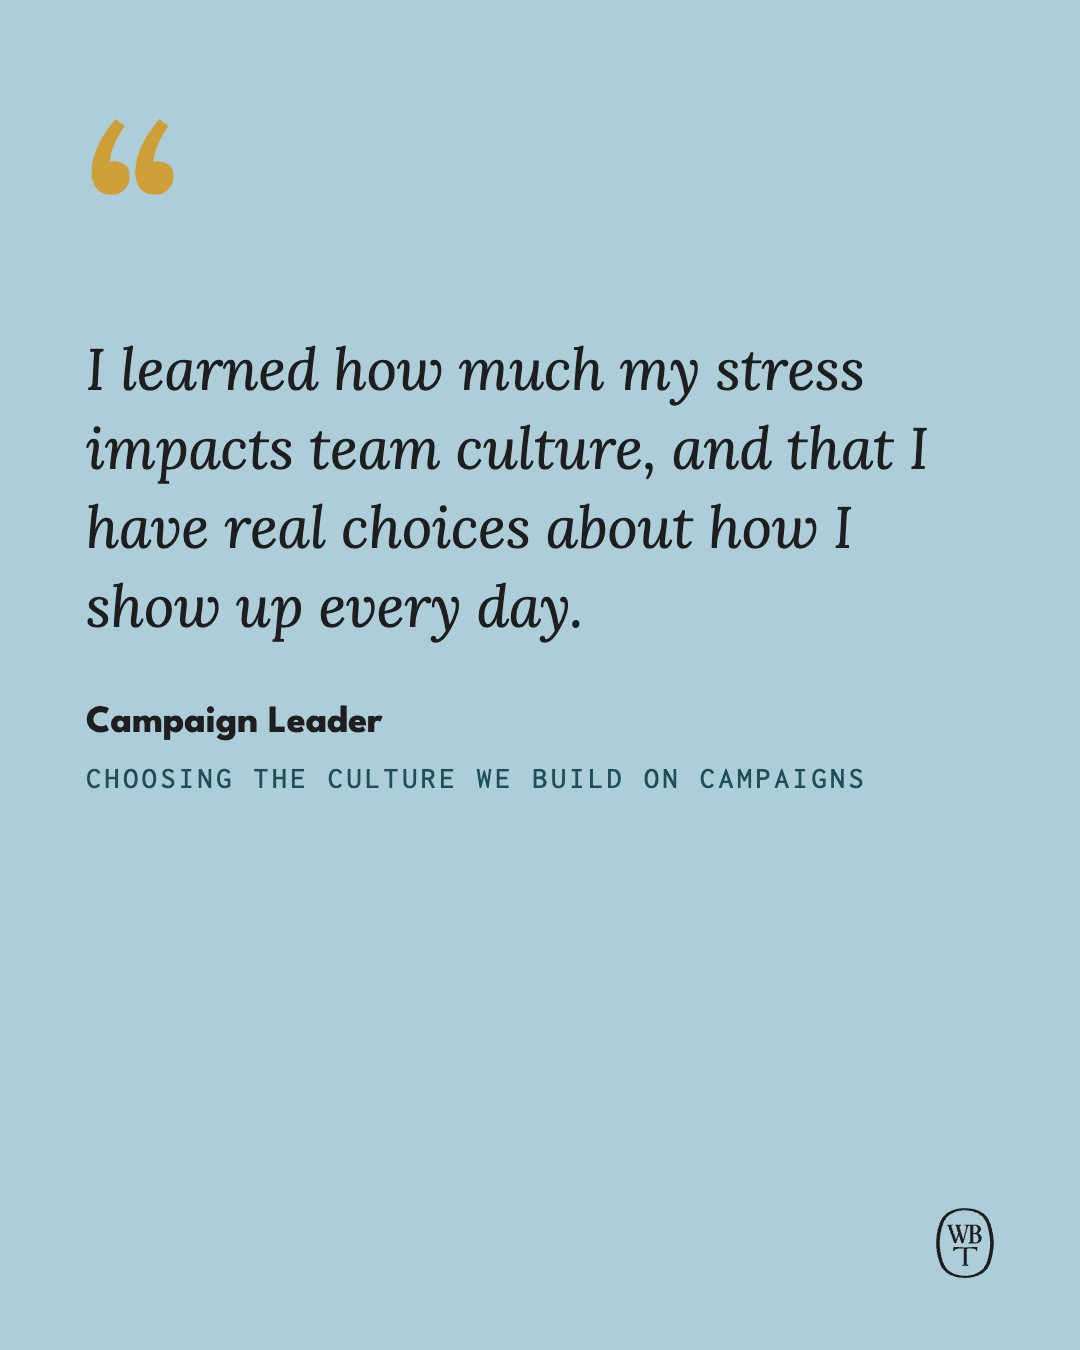
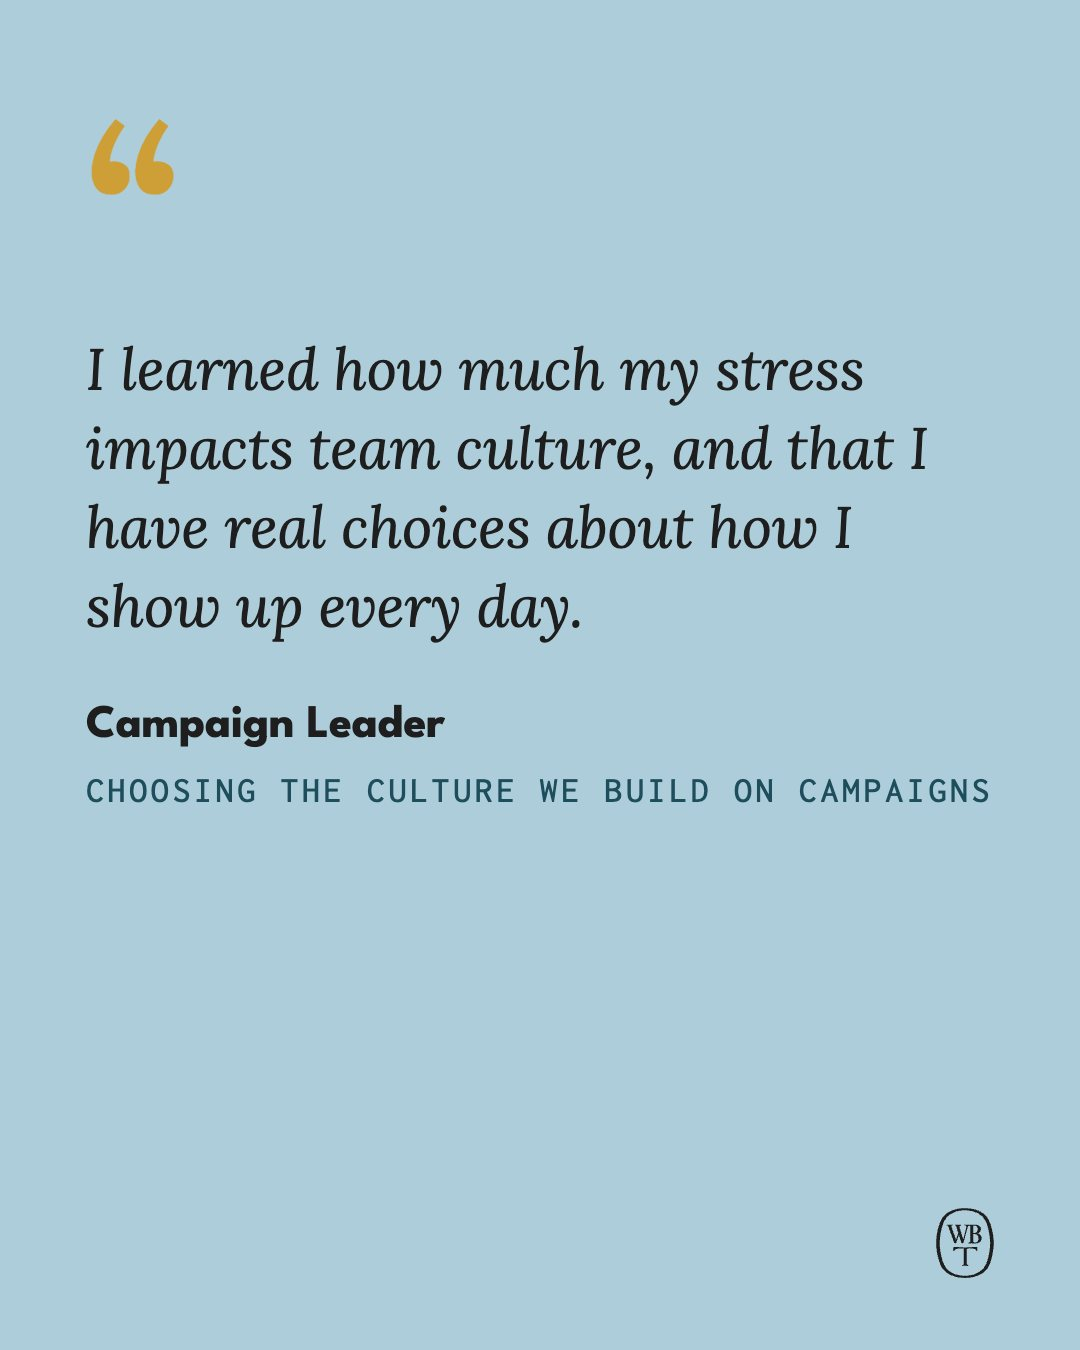
Social: bigger attributions (name 46px, role 36px, headshot 170px)

Changed region(s): [[0.0611, 0.5289, 0.9167, 0.5911]]

diff --git a/social-src/post.html b/social-src/post.html
@@ -24,13 +24,13 @@
   .body { font: 400 44px/1.5 'Lora'; margin-top: 26px; }
   .quote { font: italic 400 58px/1.36 'Lora'; } .quote.s { font-size: 52px; }
   .qmark { font: italic 700 230px/.8 'Lora'; color: #CD9F36; position: absolute; left: 80px; }
-  .name { font: 700 38px/1.3 'League Spartan'; margin-top: 52px; }
+  .name { font: 700 46px/1.25 'League Spartan'; margin-top: 52px; }
   .asterisk { display: block; width: 150px; height: 150px; transform: rotate(-8deg); margin: 0 0 40px -6px; background: var(--eyebrow);
     -webkit-mask: url('../assets/site/asterisk-mark.png') center / contain no-repeat; mask: url('../assets/site/asterisk-mark.png') center / contain no-repeat; }   /* the hand-drawn mark for key takeaways, in the eyebrow's color */
   .takeaway { font: 700 72px/1.12 'League Spartan'; letter-spacing: -0.02em; } .takeaway.s { font-size: 62px; } .story .takeaway { font-size: 80px; } .story .takeaway.s { font-size: 68px; }
   .who { display: flex; align-items: center; gap: 30px; margin-top: 52px; } .who .name { margin-top: 0; }
-  .head { width: 150px; height: 150px; border-radius: 50%; object-fit: cover; flex: none; }   /* round headshot, face-centred crop */
-  .role { font: 500 30px/1.45 'Inconsolata'; letter-spacing: .12em; text-transform: uppercase; color: var(--soft); margin-top: 10px; }
+  .head { width: 170px; height: 170px; border-radius: 50%; object-fit: cover; flex: none; }   /* round headshot, face-centred crop */
+  .role { font: 500 36px/1.4 'Inconsolata'; letter-spacing: .1em; text-transform: uppercase; color: var(--soft); margin-top: 10px; }
   .stat { font: 700 280px/.9 'League Spartan'; letter-spacing: -0.03em; margin-top: 70px; }
   .qual { font: 400 42px/1.45 'Lora'; margin-top: 40px; } .qual b { font-weight: 700; }
   .cta { position: absolute; left: 86px; right: 210px; z-index: 1; font: 500 30px/1.4 'Inconsolata'; letter-spacing: .16em; text-transform: uppercase; color: var(--cta); }
